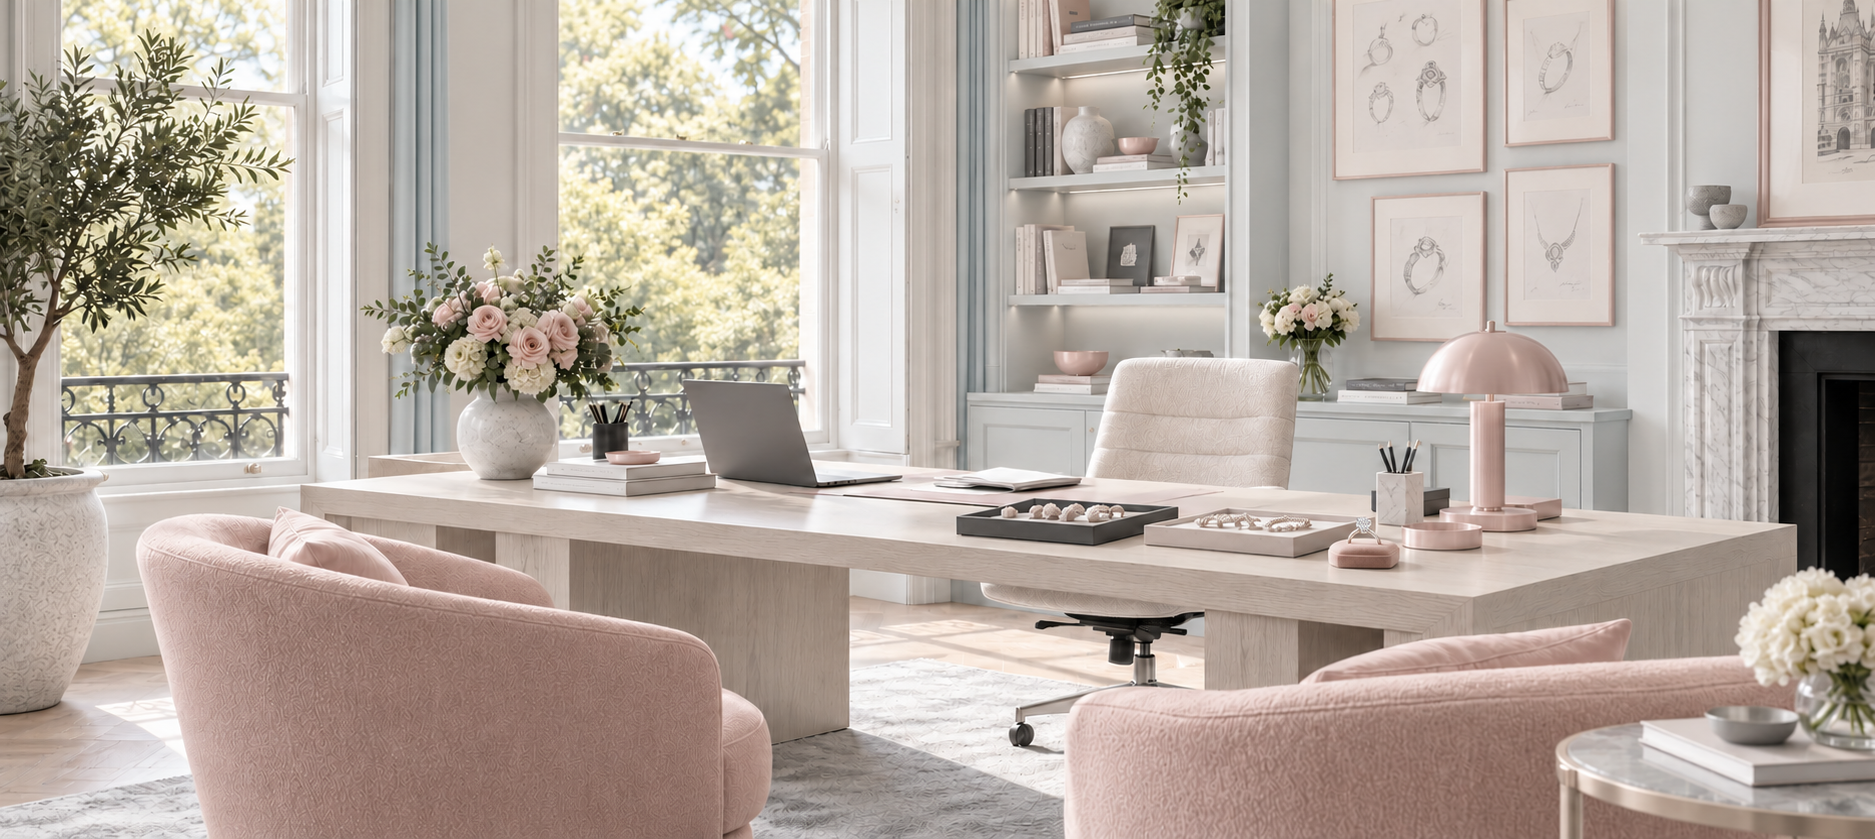
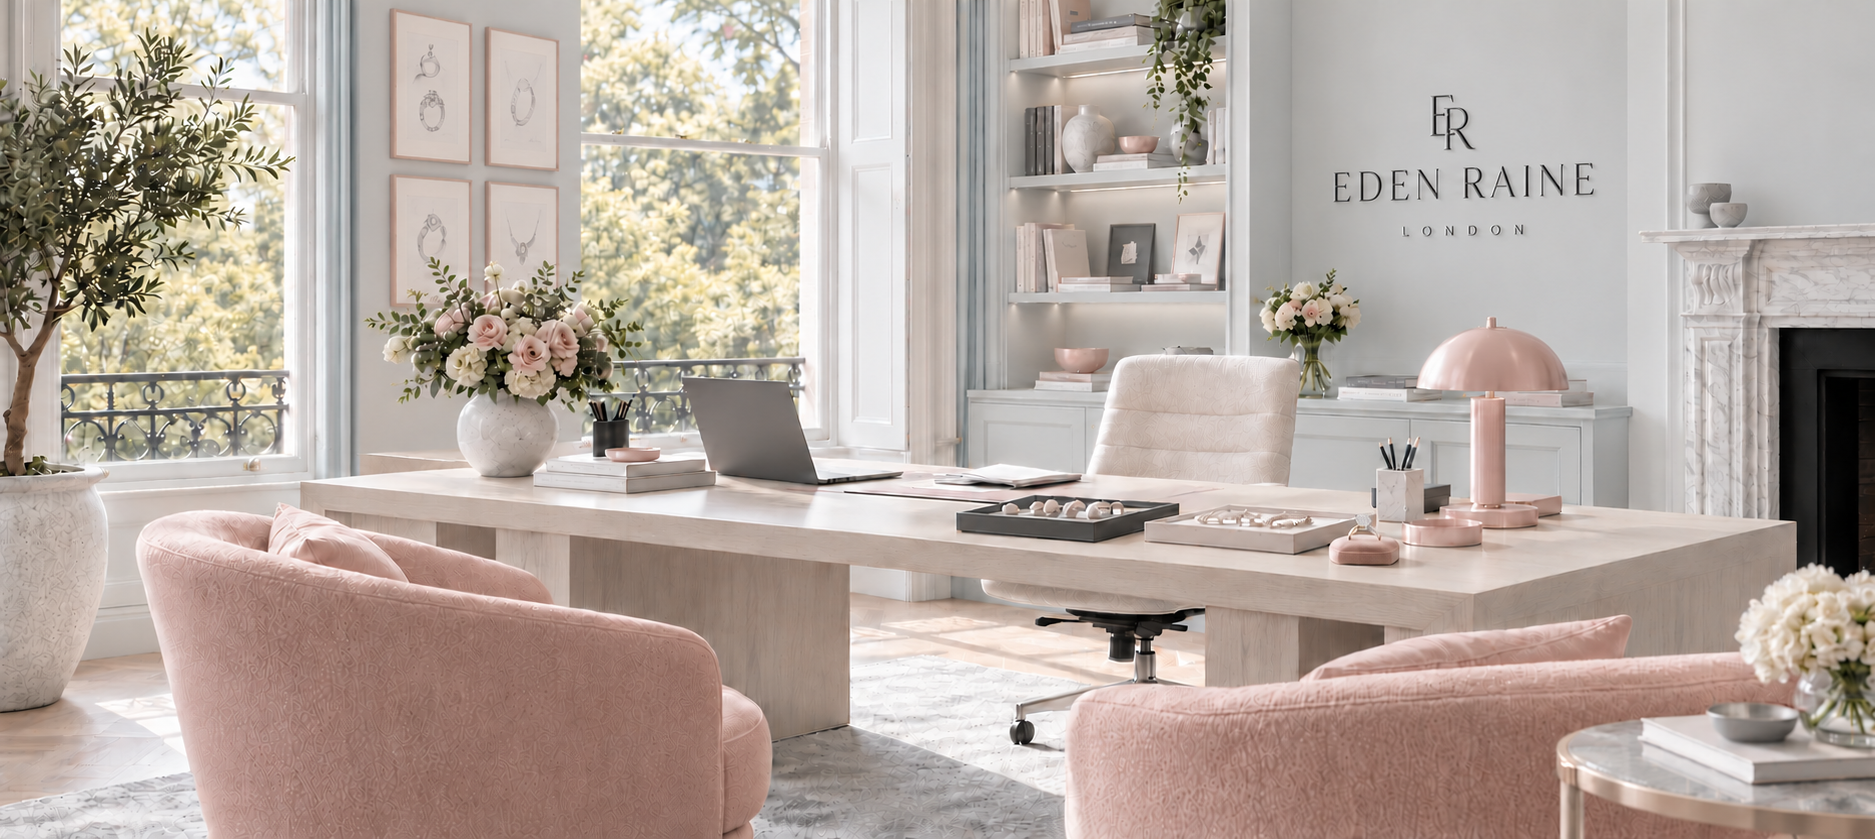
the UI forthe store front

diff --git a/assets/consultation-banner.css b/assets/consultation-banner.css
@@ -33,6 +33,8 @@
   --ecb-media-share: 50%;
   --ecb-media-height: 520px;
   --ecb-media-ratio: 4 / 3;
+  --ecb-media-focal-x: 50%;
+  --ecb-media-focal-y: 50%;
   --ecb-pad-inline: 6rem;
   --ecb-pad-block: 6rem;
   --ecb-pad-top: 0px;
@@ -76,24 +78,7 @@
   width: 100%;
   height: 100%;
   object-fit: cover;
-}
-
-.ecb-media__brand {
-  position: absolute;
-  z-index: 1;
-  top: 1.6rem;
-  right: 1.6rem;
-  width: clamp(130px, 24%, 220px);
-  padding: 1.2rem 1.4rem;
-  background: rgba(244, 244, 240, 0.94);
-}
-
-.ecb-media__brand img {
-  position: static;
-  display: block;
-  width: 100%;
-  height: auto;
-  object-fit: contain;
+  object-position: var(--ecb-media-focal-x) var(--ecb-media-focal-y);
 }
 
 /* ------------------------------------------------------------------- panel */
